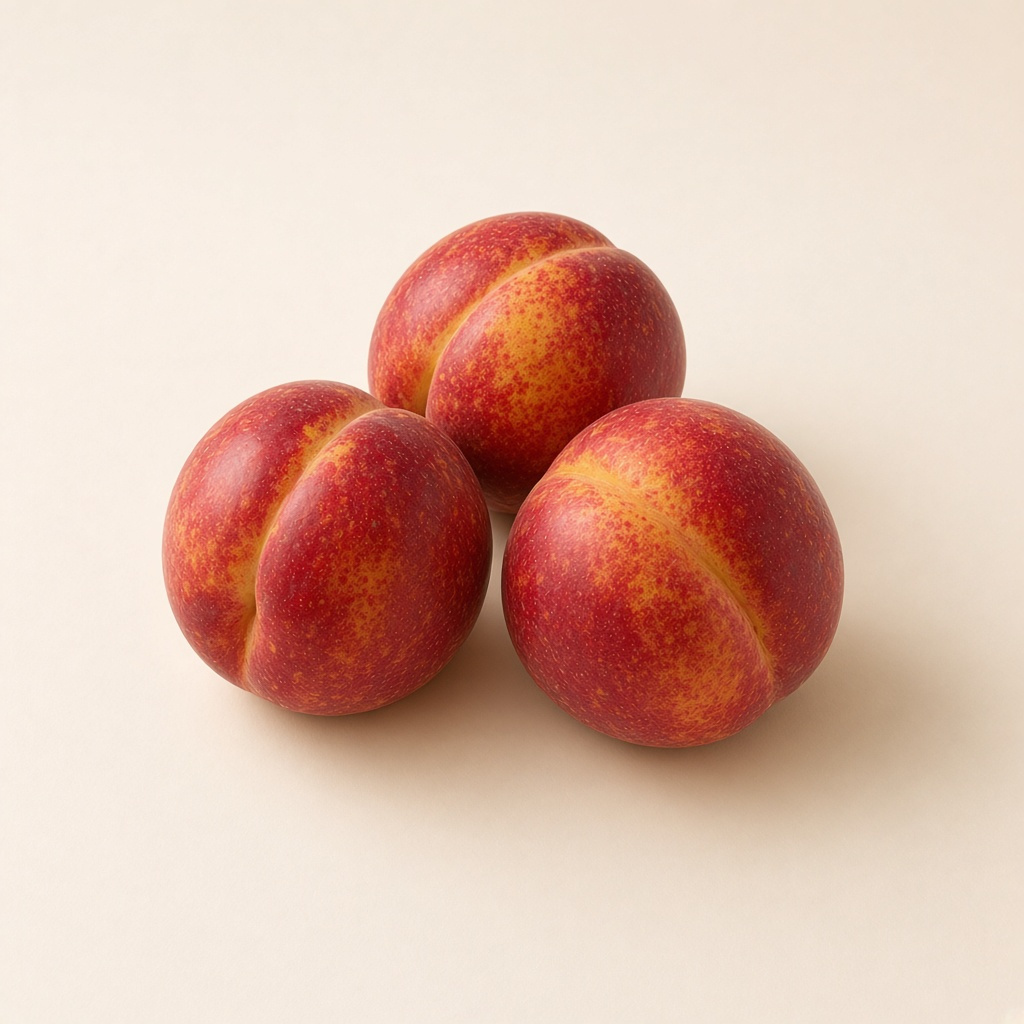
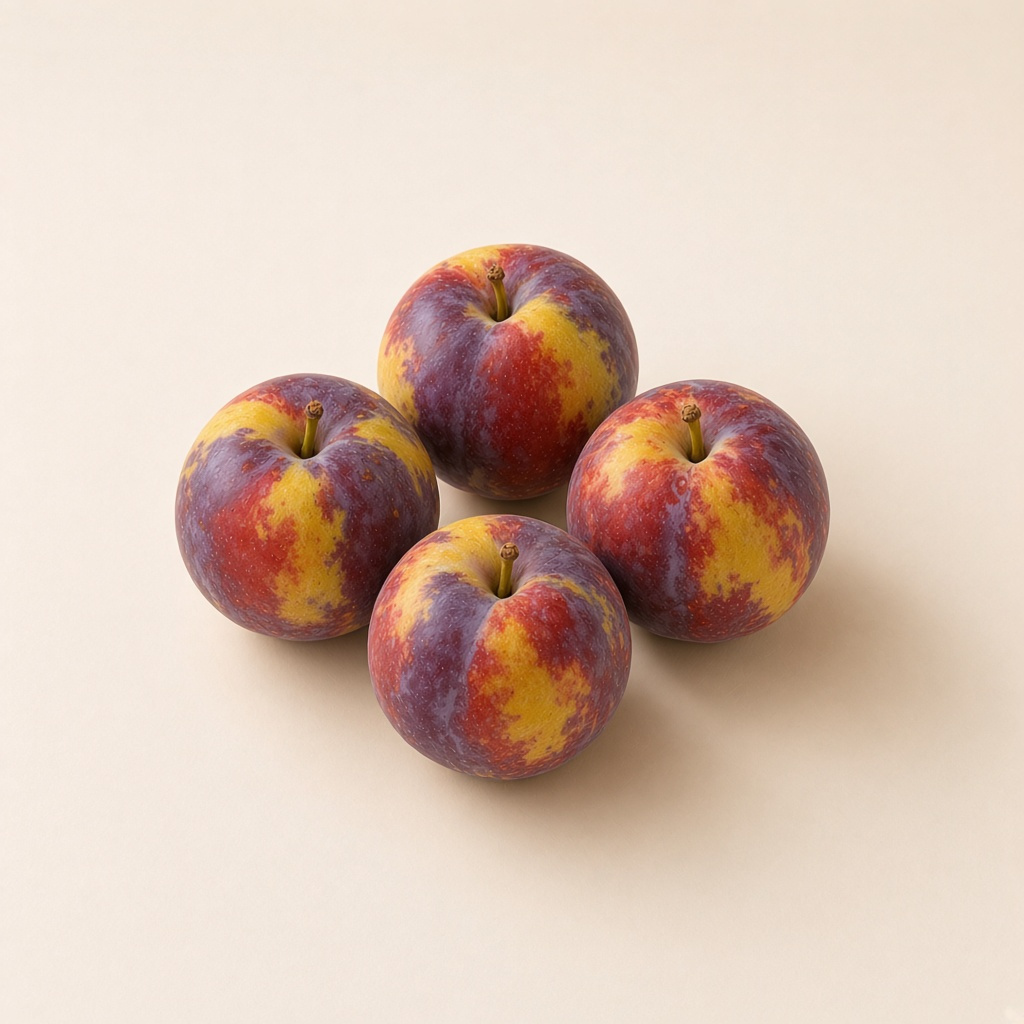
add catalog photo batches 2 and 3
Lettuce through microgreens now use their own pictures, and the pluots photo is replaced. The catalog rows point at those slug keys.

Changed region(s): [[0.1562, 0.1875, 0.9375, 0.8438]]

diff --git a/app/src/lib/photos.ts b/app/src/lib/photos.ts
@@ -44,9 +44,67 @@ const batch1 = {
   leeks: require('../../assets/photos/leeks.jpg'),
 } as const;
 
+const batch2 = {
+  lettuce: require('../../assets/photos/lettuce.jpg'),
+  spinach: require('../../assets/photos/spinach.jpg'),
+  kale: require('../../assets/photos/kale.jpg'),
+  'swiss-chard': require('../../assets/photos/swiss-chard.jpg'),
+  arugula: require('../../assets/photos/arugula.jpg'),
+  cabbage: require('../../assets/photos/cabbage.jpg'),
+  broccoli: require('../../assets/photos/broccoli.jpg'),
+  cauliflower: require('../../assets/photos/cauliflower.jpg'),
+  'brussels-sprouts': require('../../assets/photos/brussels-sprouts.jpg'),
+  'green-beans': require('../../assets/photos/green-beans.jpg'),
+  'snap-peas': require('../../assets/photos/snap-peas.jpg'),
+  'snow-peas': require('../../assets/photos/snow-peas.jpg'),
+  cucumbers: require('../../assets/photos/cucumbers.jpg'),
+  'pickling-cucumbers': require('../../assets/photos/pickling-cucumbers.jpg'),
+  zucchini: require('../../assets/photos/zucchini.jpg'),
+  'yellow-squash': require('../../assets/photos/yellow-squash.jpg'),
+  'pattypan-squash': require('../../assets/photos/pattypan-squash.jpg'),
+  'butternut-squash': require('../../assets/photos/butternut-squash.jpg'),
+  'acorn-squash': require('../../assets/photos/acorn-squash.jpg'),
+  'delicata-squash': require('../../assets/photos/delicata-squash.jpg'),
+  'spaghetti-squash': require('../../assets/photos/spaghetti-squash.jpg'),
+  pumpkin: require('../../assets/photos/pumpkin.jpg'),
+  radishes: require('../../assets/photos/radishes.jpg'),
+  turnips: require('../../assets/photos/turnips.jpg'),
+  rutabaga: require('../../assets/photos/rutabaga.jpg'),
+} as const;
+
+const batch3 = {
+  parsnips: require('../../assets/photos/parsnips.jpg'),
+  kohlrabi: require('../../assets/photos/kohlrabi.jpg'),
+  asparagus: require('../../assets/photos/asparagus.jpg'),
+  rhubarb: require('../../assets/photos/rhubarb.jpg'),
+  celery: require('../../assets/photos/celery.jpg'),
+  celeriac: require('../../assets/photos/celeriac.jpg'),
+  fennel: require('../../assets/photos/fennel.jpg'),
+  'bell-peppers': require('../../assets/photos/bell-peppers.jpg'),
+  jalapenos: require('../../assets/photos/jalapenos.jpg'),
+  poblanos: require('../../assets/photos/poblanos.jpg'),
+  'hot-peppers': require('../../assets/photos/hot-peppers.jpg'),
+  eggplant: require('../../assets/photos/eggplant.jpg'),
+  okra: require('../../assets/photos/okra.jpg'),
+  artichokes: require('../../assets/photos/artichokes.jpg'),
+  basil: require('../../assets/photos/basil.jpg'),
+  cilantro: require('../../assets/photos/cilantro.jpg'),
+  parsley: require('../../assets/photos/parsley.jpg'),
+  dill: require('../../assets/photos/dill.jpg'),
+  mint: require('../../assets/photos/mint.jpg'),
+  rosemary: require('../../assets/photos/rosemary.jpg'),
+  thyme: require('../../assets/photos/thyme.jpg'),
+  chives: require('../../assets/photos/chives.jpg'),
+  oregano: require('../../assets/photos/oregano.jpg'),
+  sage: require('../../assets/photos/sage.jpg'),
+  microgreens: require('../../assets/photos/microgreens.jpg'),
+} as const;
+
 const stock = {
   ...originals,
   ...batch1,
+  ...batch2,
+  ...batch3,
 } as const;
 
 export type StockKey = keyof typeof stock;
